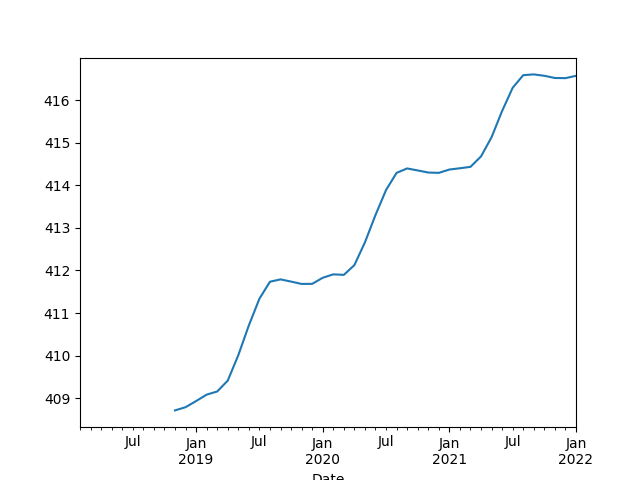
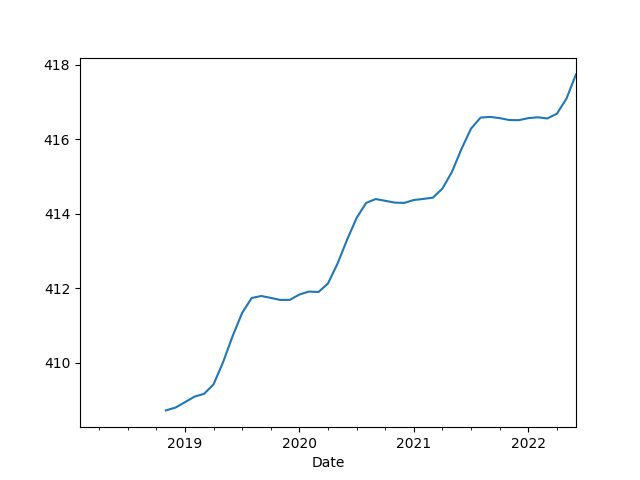
--

diff --git a/en/2015/08/temp-increase.md b/en/2015/08/temp-increase.md
@@ -246,11 +246,11 @@ plt.savefig('carbon2.png')
 
 ```text
 Date
-2021-09-01    413.30
-2021-10-01    413.93
-2021-11-01    415.01
-2021-12-01    416.71
-2022-01-01    418.19
+2022-02-01    419.28
+2022-03-01    418.81
+2022-04-01    420.23
+2022-05-01    420.99
+2022-06-01    420.99
 Name: ppm, dtype: float64
 ```
 
@@ -279,12 +279,12 @@ Date
 1959-06-01    0.286849
 Name: ppmyoy, dtype: float64
 Date
-2021-10-01    0.588078
-2021-11-01    0.457494
-2021-12-01    0.591416
-2022-01-01    0.642568
+2022-03-01    0.280146
+2022-04-01    0.281589
+2022-05-01    0.443776
+2022-06-01    0.489330
 Name: ppmyoy, dtype: float64
-0.44394748528801437
+0.4437926580096078
 ```
 
 ```python

diff --git a/en/2019/05/energstats.md b/en/2019/05/energstats.md
@@ -166,10 +166,10 @@ dtype: float64
 
 ### Primary Energy Consumption
 
-In terrawatt hours. Primary energy comprises commercially-traded
+In terrawatt hours. "Primary energy comprises commercially-traded
 fuels, including modern renewables. Energy from all sources of
 non-fossil power generation is accounted for on an input-equivalent
-basis.
+basis".
 
 ```python
 import pandas as pd
@@ -213,7 +213,6 @@ Date
 2022-07-04  4.879
 2022-07-11  4.754
 ```
-
 
 <a name='gasolineState'/>
 

diff --git a/tr/2019/README.md b/tr/2019/README.md
@@ -1,5 +1,7 @@
 # 2019
 
+[Enerji İstatistikleri](05/energstats.md)
+
 [Ekonomik İstatistikler](05/stats.md)
 
 [29 Bin Yetmedi mi?](06/29bin.md)
